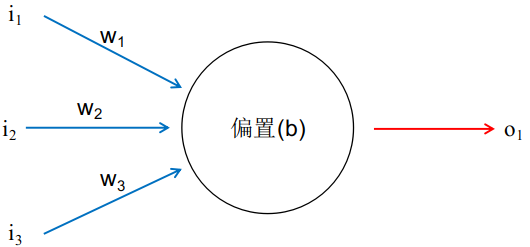
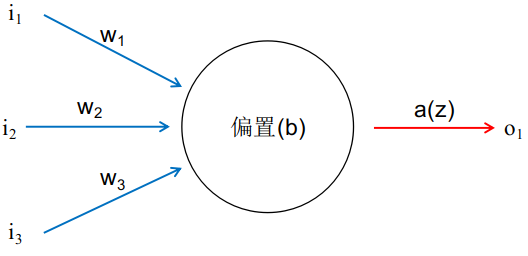
ai-1-4

diff --git a/_teaching/2018-NeuralNetwork-1.md b/_teaching/2018-NeuralNetwork-1.md
@@ -12,8 +12,17 @@ location: "中国, 北京"
 
 # 1. 神经元
 
-神经元是神经网络的组成元素，任何结构的神经网络模型都是由若干个神经元以某种形式组成的。典型的神经元如图1-1所示。每个神经元可以有若干个输入和输出，一个神经元的输出可以连接到另一个神经元，变成另一个神经元的输入。因此输入和输出个数取决于有多少个神经元与该神经元相连接。为了简明图1-1只画了一个输出，图中黑色圆圈代表神经元，三条蓝色带箭头的线代表输入神经，红色带箭头的线代表输出神经。$$i_1,i_2,i_3$$为输入值，$$w_1,w_2,w_3$$为相对应的权重，$$b$$为偏置。
+神经元是神经网络的组成元素，任何结构的神经网络模型都是由若干个神经元以某种形式组成的。典型的神经元如图1-1所示。每个神经元可以有若干个输入和输出，一个神经元的输出可以连接到另一个神经元，变成另一个神经元的输入。因此输入和输出个数取决于有多少个神经元与该神经元相连接。
 
 ![1-1](2018-NeuralNetwork/1-1.png)
 
 *<center>图1-1 神经元基本结构</center>*
+
+为了简明图1-1只画了一个输出，图中黑色圆圈代表神经元，三条蓝色带箭头的线代表输入神经，红色带箭头的线代表输出神经。$$i_1,i_2,i_3$$为输入值（input），$$w_1,w_2,w_3$$为相对应的权重（weight），$$b$$为偏置（bias），$$a(z)$$为激活函数（activation），$$o_1$$为输出（output）。整个神经元的运作方式如下式：
+$$
+o_1=a( i_1\cdot w_1+i_2\cdot w_2+i_3\cdot w_3+b) \tag{1-1}
+$$
+
+上式描述了典型的神经元工作方式，输入和权重一一对应相乘后求和，然后再与偏置值求和，求和结果带入激活函数中，所得的函数值即为输出。
+
+# 2. 神经网络
